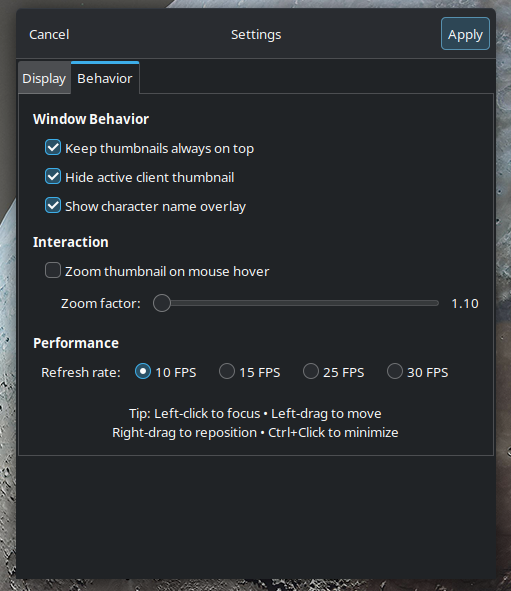
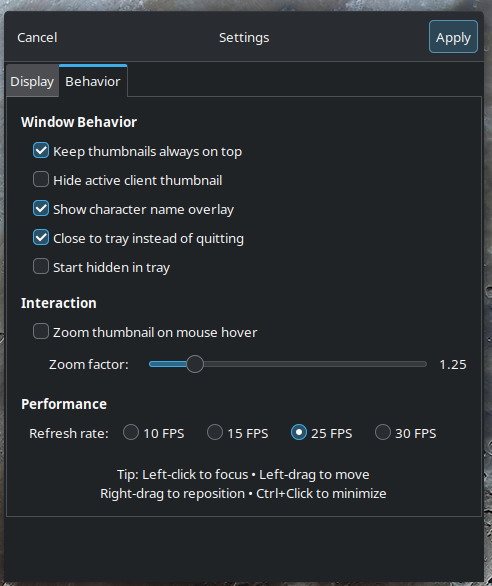
Refresh README for v0.7 performance reality; new PodSight screenshots

Changed region(s): [[0.0, 0.0, 1.0, 1.0], [0.2134, 0.7986, 0.7927, 0.8601]]

diff --git a/README.md b/README.md
@@ -1,6 +1,7 @@
-# EVE-O Preview for Linux
+# PodSight
 
-**Live thumbnail previews for multiboxing EVE Online on Linux.**
+**PodSight — live thumbnail previews for multiboxing EVE Online on Linux.**
+(Formerly *EVE-O Preview for Linux*.)
 Click to focus clients, drag to reposition, and zoom on hover.
 Features customizable borders, character overlays, and real time updates.
 Built from the ground up in Python/GTK3 supports X11 and Wayland via XWayland.
@@ -25,6 +26,7 @@ Built from the ground up in Python/GTK3 supports X11 and Wayland via XWayland.
 - **Hide Active Client:** Optionally hide the thumbnail for the currently focused client
 - **Adjustable FPS:** 10, 15, 25, or 30 FPS to balance smoothness vs. CPU usage
 - **Persistent Positions:** Thumbnail positions saved and restored between sessions
+- **System Tray:** Optional tray icon with Show/Hide and Quit; close-to-tray and start-in-tray settings (requires `libayatana-appindicator-gtk3`)
 - **Wayland Support:** Auto detects Wayland and uses XWayland backend; optional gtk-layer-shell for proper overlay support above fullscreen EVE windows
 - **MultiClient Stability:** GLib priority scheduling keeps UI responsive with 2+ EVE clients
 
@@ -39,9 +41,7 @@ If you enjoy my work, feel free to buy me a coffee!
 
 [![Watch the demo](https://img.youtube.com/vi/WN8BS4XNsOU/maxresdefault.jpg)](https://www.youtube.com/watch?v=WN8BS4XNsOU)
 
-- image generated by AI
-
-> 60-second walkthrough: launch, detect clients, click-to-focus, drag thumbnails, and settings.
+> 60-second walkthrough: launch, detect clients, click-to-focus, drag thumbnails, and settings. *(Recorded before the PodSight rename — same app, old name on screen.)*
 
 ---
 
@@ -54,7 +54,8 @@ If you enjoy my work, feel free to buy me a coffee!
 | **Single Client** Monitoring one EVE client with thumbnail overlay. | ![Single client](screenshots/single-client.png) |
 | **Management Window** Shows session type (Wayland/X11) and backend info. | ![Client monitor](screenshots/client-monitor.png) |
 | **Settings Display** Adjust thumbnail size, opacity, and active border color. | ![Display settings](screenshots/settings.png) |
-| **Settings Behavior** Configure always on top, overlays, zoom, and refresh rate. | ![Behavior settings](screenshots/behavior.png) |
+| **Settings Behavior** Configure always on top, overlays, zoom, tray, and refresh rate. | ![Behavior settings](screenshots/behavior.png) |
+| **System Tray** Show/Hide and Quit from the tray icon. | ![Tray menu](screenshots/tray.png) |
 
 ---
 
@@ -76,7 +77,7 @@ If you enjoy my work, feel free to buy me a coffee!
 
 ### Tested On
 
-- Fedora 43 KDE Plasma 6 (Wayland) with XWayland
+- Fedora 44 KDE Plasma 6 (Wayland) with XWayland
 - EVE Online via Steam (Proton/Wine XWayland)
 
 ---
@@ -92,7 +93,7 @@ sudo dnf install python3 python3-gobject gtk3 libwnck3
 sudo dnf install wmctrl xdotool
 
 # Optional Wayland overlay support (recommended on KDE Plasma / GNOME Wayland):
-sudo dnf install gtk-layer-shell
+sudo dnf install gtk-layer-shell libayatana-appindicator-gtk3
 ```
 
 ### Ubuntu / Debian
@@ -116,29 +117,24 @@ sudo pacman -S python gtk3 libwnck3
 sudo pacman -S wmctrl xdotool gtk-layer-shell
 ```
 
-### Download the Script
+### Get PodSight
 
 ```bash
-wget https://raw.githubusercontent.com/arsin305/eve-o-preview-linux/main/eve_o_preview_linux.py
-chmod +x eve_o_preview_linux.py
+git clone https://github.com/arsin305/podsight.git
+cd podsight
+./install.sh
 ```
 
-Or clone the repository:
+The installer is per-user (no sudo): it copies the app to `~/.local/share/podsight/`, adds a **PodSight** entry with icon to your application menu, and creates a `podsight` command. It checks required dependencies and prints the `dnf` command for any optional ones. Remove everything with `./uninstall.sh`.
 
-```bash
-git clone https://github.com/arsin305/eve-o-preview-linux.git
-cd eve-o-preview-linux
-```
+Prefer running straight from the repo? That still works:
 
 ---
 
 ## Usage
 
 1. Start your EVE Online clients (Steam, Lutris, or standalone Wine)
-2. Run the script:
-   ```bash
-   python3 eve_o_preview_linux.py
-   ```
+2. Launch **PodSight** from your application menu (or run `podsight`, or `python3 podsight.py` from the repo). When launched from the menu, terminal output goes to `~/.local/state/podsight/podsight.log`.
 
 The management window will appear showing session type (X11/Wayland) and backend info. EVE clients are detected automatically thumbnails appear once a character is loaded and the window title resolves to `EVE - CharacterName`.
 
@@ -154,22 +150,28 @@ The management window will appear showing session type (X11/Wayland) and backend
 ### Debug Mode
 
 ```bash
-python3 eve_o_preview_linux.py --debug
+python3 podsight.py --debug
 ```
 
 Enables per-frame capture diagnostics in the terminal.
 
+```bash
+python3 podsight.py --stats
+```
+
+Prints performance counters (per-thumbnail FPS, average capture time, process RSS) to stderr every 5 seconds.
+
 For IPC message tracing (layer-shell subprocess communication):
 
 ```bash
-EVE_PREVIEW_IPC_DEBUG=1 python3 eve_o_preview_linux.py
+PODSIGHT_IPC_DEBUG=1 python3 podsight.py
 ```
 
 ---
 
 ## Configuration
 
-Settings are stored at `~/.config/eve-o-preview-linux/config.json` and can be edited through the Settings dialog in the management window (gear icon in the header bar).
+Settings are stored at `~/.config/podsight/config.json` (settings from the old `~/.config/eve-o-preview-linux/` location are migrated automatically on first run) and can be edited through the Settings dialog in the management window (gear icon in the header bar).
 
 | Setting | Default | Description |
 |---|---|---|
@@ -182,6 +184,8 @@ Settings are stored at `~/.config/eve-o-preview-linux/config.json` and can be ed
 | Zoom factor | 1.25× | How much to enlarge on hover (1.1–2.0) |
 | Refresh rate | 10 FPS | Thumbnail update frequency |
 | Active border color | #00FF00 | Border color for the active client's thumbnail |
+| Close to tray | Off | Closing the window hides to the system tray instead of quitting |
+| Start hidden in tray | Off | Launch with only the tray icon showing |
 
 Example `config.json`:
 
@@ -205,7 +209,7 @@ Example `config.json`:
 
 ## How It Works
 
-EVE Online on Linux runs through Wine/Proton, which creates XWayland windows. The script uses `libwnck` to discover EVE client windows by matching process command lines against `exefile.exe`, `eve.exe`, and `steam_app_8500`. It captures window content via `GdkX11.gdk_pixbuf_get_from_window()` and renders scaled thumbnails as always-on-top GTK windows.
+EVE Online on Linux runs through Wine/Proton, which creates XWayland windows. The script uses `libwnck` to discover EVE client windows by matching process command lines against `exefile.exe`, `eve.exe`, and `steam_app_8500`. Window content is captured server-side: XComposite provides each client's offscreen backing pixmap and XRender scales it down on the X server, so only thumbnail-sized images (~250 KB) cross the connection instead of full frames (~8 MB). If those extensions are unavailable, it falls back to `GdkX11.gdk_pixbuf_get_from_window()` capture. Thumbnails render as always-on-top GTK windows.
 
 **On Wayland with gtk-layer-shell installed**, each thumbnail is rendered by a separate subprocess running with `GDK_BACKEND=wayland`. These subprocesses create layer-shell OVERLAY surfaces guaranteed by the Wayland compositor to appear above all other windows, including fullscreen EVE clients. The main process captures frames via GdkX11 and sends them to each subprocess over stdin/stdout pipes.
 
@@ -248,17 +252,14 @@ echo $XDG_SESSION_TYPE  # "wayland" or "x11"  both work
 
 **Black thumbnails**
 - Ensure Mesa/GPU drivers are up to date
-- Try lower FPS (10 FPS recommended)
+- Check the startup log: `Server-side capture active` should appear; if it reports legacy capture, your X server lacks XComposite/XRender
+- A client at the login/character-select screen may briefly show its icon instead — this resolves once the character loads
 
 ---
 
-## Performance Tips
+## Performance
 
-| Clients | Recommended FPS | Thumbnail Size | Notes |
-|---|---|---|---|
-| 1–2 | 10–15 FPS | 320 × 200 | Smooth with low overhead |
-| 3–4 | 10 FPS | 280 × 175 | Reduce size to keep main loop responsive |
-| 5+ | 10 FPS | 250 × 150 | Consider disabling zoom on hover |
+Since v0.7.0, capture is scaled on the X server (XComposite + XRender), so cost no longer grows with client window size — only with thumbnail size and FPS. Measured on a 3-client session: ~2–3 ms per capture, 25 FPS locked, ~70 MB RSS. Four clients at 25 FPS use only a few percent of the GLib main loop, so pick whatever FPS looks smooth; 15–25 FPS is a good default. If PodSight ever reports the legacy capture path at startup, drop to 10 FPS and smaller thumbnails.
 
 ---
 
@@ -269,7 +270,7 @@ This is an unofficial, community-created tool and is **not affiliated with, endo
 EVE Online™ is a registered trademark of CCP hf.
 
 **What This Tool Does:**
-EVE O Preview for Linux is a passive observation tool that creates visual thumbnails of EVE Online client windows. It does *not*:
+PodSight is a passive observation tool that creates visual thumbnails of EVE Online client windows. It does *not*:
 - Modify game files or memory
 - Inject code into the client
 - Automate gameplay
@@ -285,12 +286,12 @@ By using this tool, you acknowledge that:
 
 ## Contributing
 
-Pull requests welcome! For major changes, please [open an issue](https://github.com/arsin305/eve-o-preview-linux/issues) first.
+Pull requests welcome! For major changes, please [open an issue](https://github.com/arsin305/podsight/issues) first.
 
 ```bash
-git clone https://github.com/arsin305/eve-o-preview-linux.git
-cd eve-o-preview-linux
-python3 eve_o_preview_linux.py
+git clone https://github.com/arsin305/podsight.git
+cd podsight
+python3 podsight.py
 ```
 
 ---
@@ -299,7 +300,7 @@ python3 eve_o_preview_linux.py
 
 - [EVE Online](https://www.eveonline.com/)
 - [EVE-O Preview for Windows](https://github.com/Phrynohyas/eve-o-preview)
-- [Report Issues](https://github.com/arsin305/eve-o-preview-linux/issues)
+- [Report Issues](https://github.com/arsin305/podsight/issues)
 
 ---
 
@@ -307,7 +308,7 @@ python3 eve_o_preview_linux.py
 
 If you encounter issues:
 1. Review the troubleshooting section above
-2. Check open [GitHub issues](https://github.com/arsin305/eve-o-preview-linux/issues)
+2. Check open [GitHub issues](https://github.com/arsin305/podsight/issues)
 3. Include when reporting:
    - Linux distro and version
    - Desktop environment and session type (`echo $XDG_SESSION_TYPE`)
